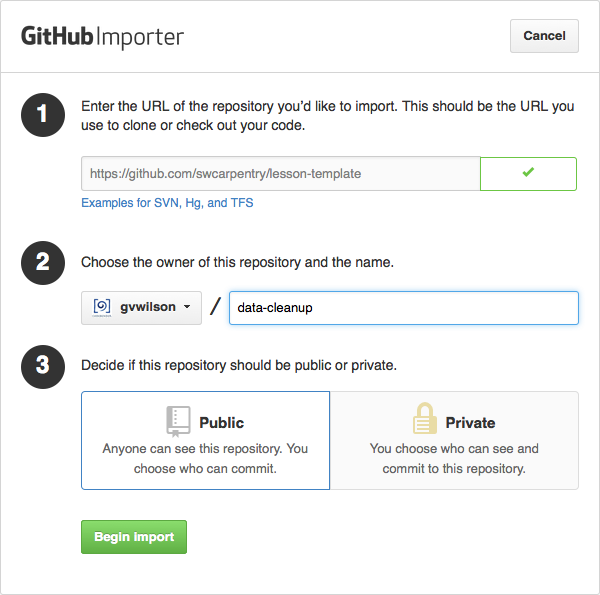
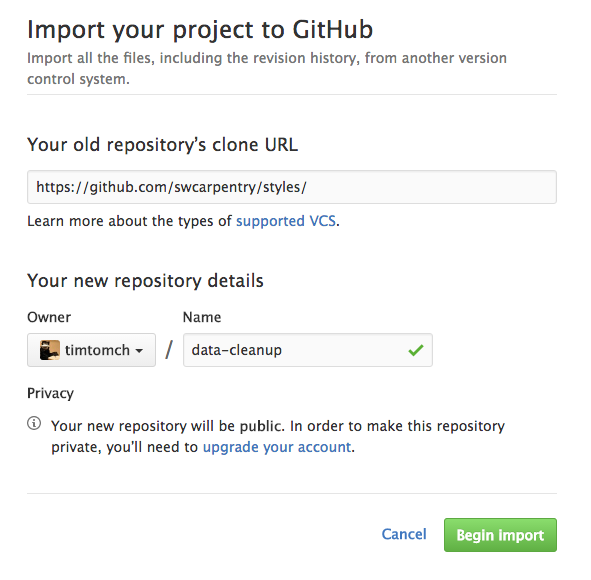
Updated setup instructions
Updated the setup instructions to reflect the current GitHub interface,
and small changes to the lesson template files.

diff --git a/setup.md b/setup.md
@@ -56,18 +56,16 @@ lesson is `data-cleanup`.
     Do *not* use the URL of this repository,
     as that will bring in a lot of example files you don't actually want.
 
-3.  Click on "Check the URL".  (GitHub won't import until you've done this.)
-
-4.  Select the owner for your new repository.
-    In our example this is `gvwilson`,
+3.  Select the owner for your new repository.
+    In our example this is `timtomch`,
     but it may instead be an organization you belong to.
 
-5.  Choose a name for your lesson repository.
+4.  Choose a name for your lesson repository.
     In our example, this is `data-cleanup`.
 
-6.  Make sure the repository is public.
+5.  Make sure the repository is public.
 
-7.  At this point, you should have a page like this:
+6.  At this point, you should have a page like this:
 
     ![]({{ page.root }}/fig/using-github-import.png)
 
@@ -75,16 +73,16 @@ lesson is `data-cleanup`.
     When the process is done,
     you can click "Continue to repository" to visit your newly-created repository.
 
-8.  Clone your newly-created repository to your desktop:
+7.  Clone your newly-created repository to your desktop:
 
     ~~~
-    $ git clone -b gh-pages https://github.com/gvwilson/data-cleanup.git
+    $ git clone -b gh-pages https://github.com/timtomch/data-cleanup.git
     ~~~
     {: .source}
 
     Note that the URL for your lesson will be different than the one above.
 
-9.  Go into that directory using:
+8.  Go into that directory using:
 
     ~~~
     $ cd data-cleanup
@@ -94,7 +92,7 @@ lesson is `data-cleanup`.
     Note that the name of your directory will be different,
     since your lesson probably won't be called `data-cleanup`.
 
-10. Manually add the styles repository as a remote called `template`:
+9. Manually add the styles repository as a remote called `template`:
 
     ~~~
     $ git remote add template https://github.com/swcarpentry/styles.git
@@ -103,8 +101,22 @@ lesson is `data-cleanup`.
 
     This will allow you to pull in changes made to the template,
     such as improvements to our CSS style files.
-    (Note that the user name above is `swcarpentry`, *not* `gvwilson`,
+    (Note that the user name above is `swcarpentry`, *not* `timtomch`,
     since you are adding the master copy of the template as a remote.)
+
+10. Make sure you are using the `gh-pages` branch of the lesson template:
+
+    ~~~
+    $ git checkout gh-pages
+    ~~~
+    {: .source}
+
+	This will ensure that you are using the most "stable" version of the
+	template repository. Since it's being actively maintained by the
+	Software Carpentry community, you could end up using a development branch
+	that contains experimental (and potentially not working) features without
+	necessarily realising it. Switching to the `gh-branch` ensures you are
+	using the "stable" version of the template.
 
 11. Run `bin/lesson_initialize.py` to create all of the boilerplate files
     that cannot be put into the styles repository

diff --git a/_episodes/03-organization.md b/_episodes/03-organization.md
@@ -85,7 +85,7 @@ The `bin/lesson_initialize.py` script creates files that need to be customized f
 Contribution guidelines.
 The `issues` and `repo` links at the bottom of the file must be changed
 to match the URLs of the lesson:
-look for uses of `{LESSON-NAME}`.
+look for uses of `FIXME`.
 
 ### `_config.yml`
 
@@ -112,7 +112,7 @@ A plain text file listing the names of the lesson's authors.
 
 The home page for the lesson.
 
-1.  It must use the `index` layout.
+1.  It must use the `lesson` layout.
 2.  It must *not* have a `title` field in its [YAML][yaml] header.
 3.  It must open with a few paragraphs of explanatory text.
 4.  That introduction must be followed by a single `.prereq` blockquote
